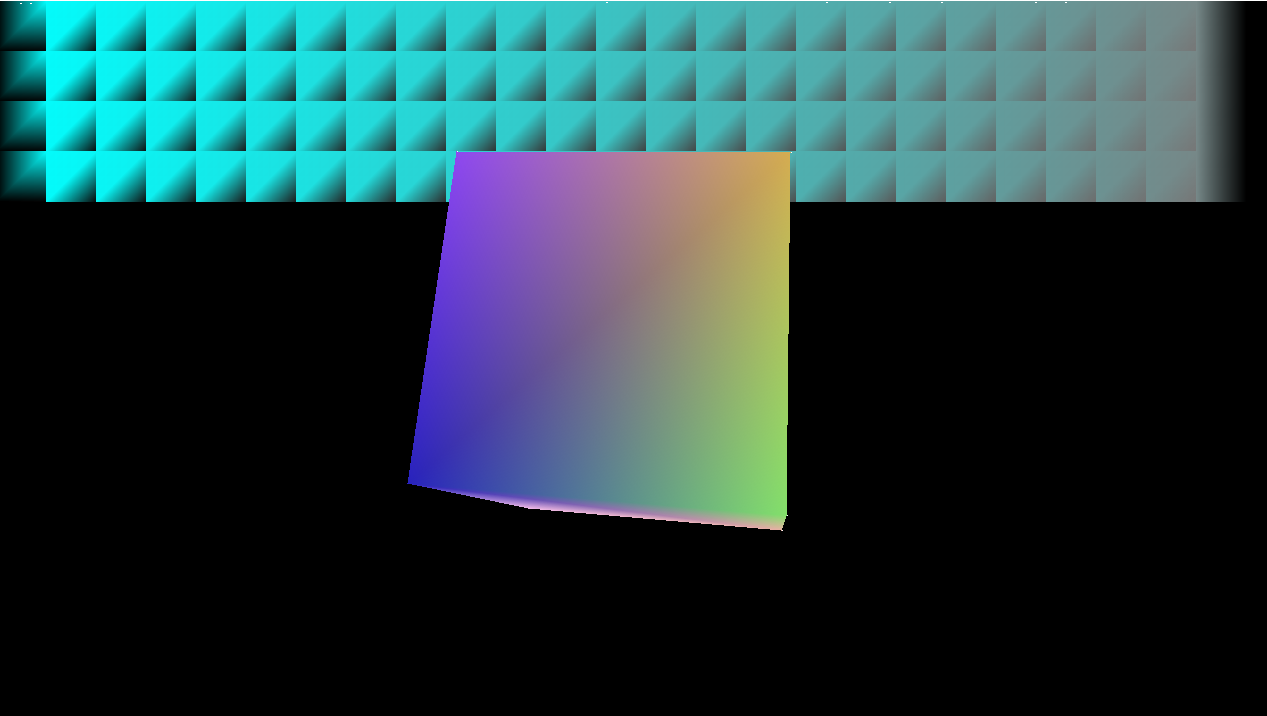
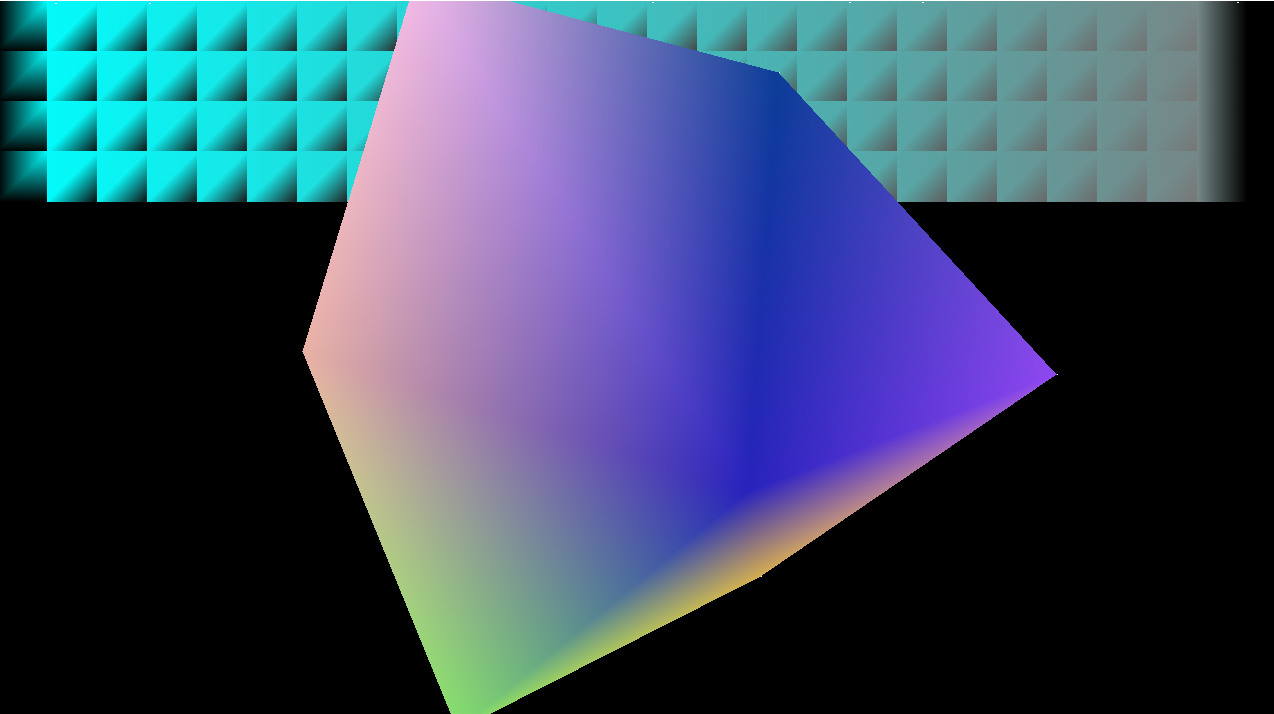
more updates for riscv project

diff --git a/js/projects.js b/js/projects.js
@@ -303,20 +303,6 @@ const PROJECTS = {
       /**
        * 
        * 
-       * mandelbrot
-       * 
-       * tool website
-       * c mock up
-       * desmos mock up
-       * shader toy mock up
-       * 
-       * skills learned section
-       *  system verilog and making testbenches
-       *  c and make/gcc
-       *  vivado tools
-       *  learned about cpu and gpu design
-       *  learned about the floating point system and how to design hardware for it
-       *  
        */
       sections: [
         {
@@ -324,7 +310,7 @@ const PROJECTS = {
           blocks: [
             {
               type: "p",
-              text: "Essentially, as a broad overview of this project, I made a fully functioning computer that runs on a FPGA (Field Programmable Gate Array). And I did it all without AI writing any of the hardware! An FPGA is a special type of computer chip that can \"emulate\" other circuitry. In this case the FPGA is \"emulating\" the computer I designed. The computer is split into two parts. There is the CPU (Central Processing Unit), which is the brains of the computer, then the GPU (Graphics Processing Unit) which does all of the drawing and computations related to drawing.",
+              text: "Essentially, I made a fully functioning computer that runs on a FPGA (Field Programmable Gate Array), and I did it all without AI writing any of the hardware! An FPGA is a special type of computer chip that can \"emulate\" other circuitry. In this case the FPGA is \"emulating\" the computer I designed. The computer is mainly split into two parts. There is the CPU (Central Processing Unit), which is the brains of the computer, then the GPU (Graphics Processing Unit) which does all of the drawing and computations related to drawing.",
             },
           ],
 
@@ -339,11 +325,11 @@ const PROJECTS = {
                 }, 
                 {
                   type: "p",
-                  text: "The CPU can pretty much run any program written in the C programming language. The one limitation is floating arithmetic since the CPU has no instructions that can do it natively. The solution is memory mapped floating point arithmetic. The CPU can write to the screen allowing the user to make programs that draw shapes or text. When it comes to drawing, the CPU is pretty slow. Instead the much faster approach is to utilize the GPU.",
+                  text: "The CPU can pretty much run any program written in the C programming language. It should even be able to run DOOM but I haven't tested it yet. Through some clever modifications the CPU can even do 16 bit floating point operations. The CPU can write to the screen allowing the user to make programs that draw shapes or text; However, when it comes to drawing, the CPU is pretty slow. Instead the much faster approach is to utilize the GPU. Specialized designed hardware to draw triangles and quickly do computations need for 3D graphics.",
                 },
                 {
                   type: "p",
-                  text: "The GPU takes in an list of vertices and a 4x4 matrix. The matrix is used to transform the vertices in 3d space. This is useful for translating/rotating/scaling models with respect to a camera. Then the GPU draws every 3 vertices as a triangle on the screen with a corresponding color."
+                  text: "The GPU takes in an list of vertices and a 4x4 matrix. The matrix is used to transform the vertices in 3d space. This is useful for translating/rotating/scaling models with respect to a camera. Then the GPU draws every 3 vertices as a triangle on the screen with a corresponding color (only one color per triangle)."
                 },
                 {
                   type: "p",
@@ -361,11 +347,11 @@ const PROJECTS = {
                 },
                 {
                   type: "p",
-                  text: "In general the GPU can draw around 300ish triangles at 60 fps on a 1280x720 resolution display at 24 bits per pixel. "
+                  text: "In general the GPU can draw around 300ish triangles at 60 fps on a 1280x720 resolution display at 24 bits per pixel with an 8 bit depth buffer. "
                 },
                 {
                   type: "p",
-                  text: "Both the CPU and GPU can use 16 bit floating point arithmetic (Add/Sub, Mult, Div).",
+                  text: "Both the CPU and GPU can use 16 bit floating point arithmetic (Add/Sub, Mult, Div). When running the Mandelbrot program I estimate the computer was computing about 900,000 floating point operations per second. While the GPU computes around 1,750,000 floating point operations per second when rendering around 300 triangles at 60fps.",
                 },
               ],
             },
@@ -374,7 +360,16 @@ const PROJECTS = {
               blocks:[
                 {
                   type: "p",
-                  text: "I used the Urbana RealDigital board (uses the AMD XC7S50-CSG324A Spartan 7 FPGA). For this project all the hardware was made using SystemVerilog. I used the Visual Studio Code IDE. Vivado was used for simulation and generation of the bit file. I used the openFPGALoader to program the FPGA. Some custom made tools that I will talk about later. I used shadertoy to test some rendering methods. Finally I also used Desmos to test a lot of math throughout this project.",
+                  text: "I used the Urbana RealDigital board (uses the AMD XC7S50-CSG324A Spartan 7 FPGA). For this project all the hardware was made using SystemVerilog. I used the Visual Studio Code IDE. Vivado was used for simulation and generation of the bit file. I used the openFPGALoader to program the FPGA. I will discuss more of my tools bellow.",
+                }
+              ]
+            },
+            {
+              title:"Skills Learned",
+              blocks:[
+                {
+                  type: "p",
+                  text: "This project has taught me many useful skills. The biggest skill I learned was hardware design using SystemVerilog and the vivado tool chain. I also learned more about programming in C and using makescripts. I also learned more about CPU and GPU design through building both. I also learned about different number systems such as ints, floats, and fixed point through both software and designing floating point hardware (add/sub,mult,div,floor,float to int)."
                 }
               ]
             }
@@ -693,7 +688,97 @@ const PROJECTS = {
                   aspectRatio: "775 / 560", 
                 },
               ],
+            },
+            {
+              title: "Number systems",
+              blocks:[
+                {
+                  type: "p",
+                  text: "For this project I made two number systems for my computer to use. The first was a 16 bit fixed point system. The 12 most significant bits were in front of the decimal then the 4 least significant bits went after the decimal place. For example PI would be approximated as 3.125 = 0000_0000_0011.0010. Fixed point arithmetic can be done using integer arithmetic. This made adds/subtracts very easy. Fixed point multiplications and divides were similarly done with integer mult/div but with some bit shifting."
+                },
+                {
+                  type: "p",
+                  text: "While I did initially plan for the GPU to use fixed pont for the rendering, a C simulation made me realize it's limitations. Due to the low precision vertices almost looked snappy. I decided to do a test using 16 bit floating point and it was smoother. The advantages pushed me to using them for the GPU calculations then switch to fixed point for the triangle drawing since a lower level of precision was needed. While my computer uses 16 bit floating point, it is not to the IEEE standard. After some experimentation I landed on using the following bit convention (which happens to be the same as IEEE):"
+                },
+                {
+                  type: "image",
+                  src: "assets/images/FPGAGraphicsCard/IEEE_754r_Half_Floating_Point_Format.svg.webp",
+                  caption: "Credit to wikipedia"
+                },
+                {
+                  type: "p",
+                  text: "Where my implementation differed from the IEEE standard was my 16 bit floats had no subnormals. This was to simplify the hardware so it would run faster and use less of the FPGA's resources. I also was not planning on using very small numbers for any reason. "
+                },
+                {
+                  type: "p",
+                  text: "In my system all vertices were stored as 16 bit floats. The vertex transformer would transform each vertex then convert them to fixed point. The triangle drawer then used these fixed point values to draw the triangles. The CPU had memory mapped floating point hardware that it could use to do floating point math. No fixed point hardware was provided for the CPU since fixed point math is very similar to integer math. However hardware to convert floats to fixed point was provided. "
+                }
+              ],
             }
+          ]
+        },
+        {
+          title: "Tools Used/Made",
+          blocks:[
+          ],
+          subsections: [
+            {
+              title: "Desmos Fixed Point Mock Up",
+              blocks: [
+                {
+                  type: "p",
+                  text: "Before starting on the computer I was trying to decide if I should use fixed point or floating point. To start I made a desmos graph where I made a fixed point mock up. I used it to figure out the minimum number of bits I could get away with for reasonable results. I also a mock up 3d models to visualize the precision of the fixed point number system. [link to graph](https://www.desmos.com/calculator/siyzpfxagn)"
+                },
+                {
+                  type: "image",
+                  src: "assets/images/FPGAGraphicsCard/desmosFixedPoint.PNG",
+                  aspectRatio:"1 / 1",
+                  caption: "Image of Desmos graph showing the Utah Teapot \"rendered\" using the 16 bit fixed point math (yellow) and the ground truth (grey). You can see how limited precision in fixed point leads to it drifting from the real positions."
+                },
+              ],
+            },
+            {
+              title: "C Graphics Card Mock Up",
+              blocks: [
+                {
+                  type: "p",
+                  text: "After making the desmos fixed point graph I decided to make a simulation in C. This simulation had 2 purposes. The first was to get a better visualization of the results of fixed point math. Then test the triangle drawing algorithm using software to get an understand of how it works. The C simulation also allowed me to easily plan/test out the mathematics of the vertex transformer. After making the C simulation I realized the fixed point math works but doesn't look very pleasant. As the cube rotates the vertices of the cube would jitter around. This made me decide to test out floating point arithmetic. ",
+                },
+                {
+                  type: "image",
+                  src: "assets/images/FPGAGraphicsCard/cSimOfGraphicsCard.PNG",
+                  caption: "Output from C simulation showing a rotated cube."
+                }
+              ],
+            },
+            {
+              title: "Desmos Floating Point Mock Up",
+              blocks: [
+                {
+                  type: "p",
+                  text: "I updated my fixed point graph to use floating point math. Again I could adjust the number of bits in my floating point number and the form it would take. This allowed me to figure out the best floating point set up for my project. [Link to graph](https://www.desmos.com/calculator/nruwysokah)",
+                },
+                {
+                  type: "image",
+                  src: "assets/images/FPGAGraphicsCard/desmosFloatingPoint.PNG",
+                  aspectRatio:"2 / 1",
+                  caption: "Image of Desmos graph showing the Utah Teapot \"rendered\" using the 16 bit floating point math (yellow) and the ground truth (grey). Notice how much more accurate the 16 bit floating point is compared to the 16 bit fixed point. This is ultimately why I chose to go with floating point over fixed point for my computer."
+                },
+              ],
+            },
+            {
+              title: "Shadertoy Mandelbrot",
+              blocks: [
+                {
+                  type: "p",
+                  text: "When making the mandelbrot program for my computer I first tested the algorithm using shadertoy. I got the beautiful output bellow. "
+                },
+                {
+                  type: "image",
+                  src: "assets/images/FPGAGraphicsCard/shaderToyMandelbrot.PNG"
+                }
+              ],
+            },
           ]
         }
       ],

diff --git a/pages/resume.html b/pages/resume.html
@@ -25,7 +25,7 @@
           <ul class="nav-links">
             <li><a href="circuitry.html">Circuitry</a></li>
             <li><a href="games.html">Video Games</a></li>
-            <li><a href="voxels.html">Game Tech</a></li>
+            <li><a href="gametech.html">Game Tech</a></li>
             <li><a href="other.html">Other</a></li>
             <li><a href="awards.html">Awards</a></li>
             <li><a href="resume.html" aria-current="page">Resume</a></li>
@@ -86,14 +86,14 @@
             <h2>Experience</h2>
             <ul class="award-list">
               <li class="resume-item">
-                <span class="year">2026 (School Year) - 2026 (Summer)</span>
+                <span class="year">2026 (Spring) & 2026 (Summer)</span>
                 <div>
                   <h3>MIT Undergraduate Research</h3>
                   <p>Worked with professor Joe Steinmeyer to develop a printed circuit board for his 6.205 (Digital Systems Labratory) class. The board takes in 2 MIPI inputs and feeds the signal to an FPGA chip</p>
                 </div>
               </li>
               <li class="resume-item">
-                <span class="year">2025 - 2026 (School Year)</span>
+                <span class="year">2025 - 2026 (School Year) & 2026 Fall</span>
                 <div>
                   <h3>Vassar Package Desk</h3>
                   <p>Worked the front desk for my dorm receiving and logging packages.</p>
@@ -121,7 +121,7 @@
             <ul class="award-list">
               <li class="resume-item resume-item--no-date">
                 <div>
-                  <h3>RISC-V Computer and Graphics Card</h3>
+                  <a href="../project.html?id=RISCComputer">RISC-V Computer and Graphics Card</a>
                   <ul class="project-bullets">
                     <li>Designed a RISC-V Computer and custom 3D graphics card using SystemVerilog</li>
                     <li>Runs on a Spartan 7 FPGA</li>
@@ -130,7 +130,7 @@
               </li>
               <li class="resume-item resume-item--no-date">
                 <div>
-                  <h3>8-bit Computer / Game Console</h3>
+                  <a href="../project.html?id=6502%20Game%20Console">8-bit Computer / Game Console</a>
                   <ul class="project-bullets">
                     <li>Designed and built an 8-bit computer from scratch based on the 6502 microprocessor</li>
                     <li>Built a robust graphics card, allowing the computer to play games similar to the Nintendo Game Console Games.</li>
@@ -140,7 +140,7 @@
               </li>
               <li class="resume-item resume-item--no-date">
                 <div>
-                  <h3>Voxel Rendering Engines</h3>
+                  <a href="/pages/gametech.html">Voxel Rendering Engines</a>
                   <ul class="project-bullets">
                     <li>Designed many engines to visualizes 3d volumetric data</li>
                     <li>Simple cube rasterizer similar to minecraft</li>
@@ -152,7 +152,7 @@
               </li>
               <li class="resume-item resume-item--no-date">
                 <div>
-                  <h3>Physics Engines</h3>
+                  <a href="/pages/gametech.html">Physics Engines</a>
                   <ul class="project-bullets">
                     <li>Have developed 2D physics engine cabable of complex shaped rigidbodies</li>
                     <li>Made similar engine capable of complex 2D softbodies</li>
@@ -164,33 +164,14 @@
 
           <section class="resume-block">
             <h2>Service</h2>
-            <ul class="award-list">
-              <li class="resume-item">
-                <span class="year" aria-hidden="true">•</span>
-                <div>
-                  <p>Provided food for people currently experiencing homelessness in Denver and activities for nearby children</p>
-                </div>
-              </li>
-              <li class="resume-item">
-                <span class="year" aria-hidden="true">•</span>
-                <div>
-                  <p>Assembled water filtration systems for impoverished countries</p>
-                </div>
-              </li>
-              <li class="resume-item">
-                <span class="year" aria-hidden="true">•</span>
-                <div>
-                  <p>Helped build houses through Habitat for Humanity</p>
-                </div>
-              </li>
-              <li class="resume-item">
-                <span class="year" aria-hidden="true">•</span>
-                <div>
-                  <p>Hosted STEM education camp at Joshua Station</p>
-                </div>
-              </li>
+            <ul class="project-bullets">
+              <li>Provided food for people currently experiencing homelessness in Denver and activities for nearby children</li>
+              <li>Assembled water filtration systems for impoverished countries</li>
+              <li>Helped build houses through Habitat for Humanity</li>
+              <li>Hosted STEM education camp at Joshua Station</li>
             </ul>
           </section>
+          <div style="height: 75px;"></div>
         </div>
       </main>
 

diff --git a/index.html b/index.html
@@ -28,7 +28,7 @@
           <ul class="nav-links">
             <li><a href="pages/circuitry.html">Circuitry</a></li>
             <li><a href="pages/games.html">Video Games</a></li>
-            <li><a href="pages/voxels.html">Game Tech</a></li>
+            <li><a href="pages/gametech.html">Game Tech</a></li>
             <li><a href="pages/other.html">Other</a></li>
             <li><a href="pages/awards.html">Awards</a></li>
             <li><a href="pages/resume.html">Resume</a></li>
@@ -41,7 +41,7 @@
           <div class="container">
             <h1 class="hero-brand">Breck <em>Massey</em></h1>
             <p class="hero-lead">
-              MIT Electrical Engineering student and passionate developer.
+              MIT Electrical Engineering Student and Passionate Developer.
             </p>
             <div class="hero-actions">
               <a class="btn btn-ghost" href="pages/resume.html">Resume</a>
@@ -53,6 +53,7 @@
 
         <section class="category-strip container" aria-labelledby="explore-label">
           <h2 id="explore-label">Projects</h2>
+          <p>All projects are made through hard work and human ingenuity without AI.</p>
           <div class="category-row">
             <a class="category-link" href="pages/circuitry.html">
               <strong>Circuitry</strong>
@@ -62,7 +63,7 @@
               <strong>Video Games</strong>
               <span>Playable Projects</span>
             </a>
-            <a class="category-link" href="pages/voxels.html">
+            <a class="category-link" href="pages/gametech.html">
               <strong>Game Technology</strong>
               <span>Tech Used in Games</span>
             </a>

diff --git a/project.html b/project.html
@@ -26,7 +26,7 @@
           <ul class="nav-links">
             <li><a href="pages/circuitry.html">Circuitry</a></li>
             <li><a href="pages/games.html">Video Games</a></li>
-            <li><a href="pages/voxels.html">Game Tech</a></li>
+            <li><a href="pages/gametech.html">Game Tech</a></li>
             <li><a href="pages/other.html">Other</a></li>
             <li><a href="pages/awards.html">Awards</a></li>
             <li><a href="pages/resume.html">Resume</a></li>

diff --git a/pages/gametech.html b/pages/gametech.html
@@ -25,7 +25,7 @@
           <ul class="nav-links">
             <li><a href="circuitry.html">Circuitry</a></li>
             <li><a href="games.html">Video Games</a></li>
-            <li><a href="voxels.html" aria-current="page">Game Tech</a></li>
+            <li><a href="gametech.html" aria-current="page">Game Tech</a></li>
             <li><a href="other.html">Other</a></li>
             <li><a href="awards.html">Awards</a></li>
             <li><a href="resume.html">Resume</a></li>

diff --git a/pages/circuitry.html b/pages/circuitry.html
@@ -25,7 +25,7 @@
           <ul class="nav-links">
             <li><a href="circuitry.html"  aria-current="page">Circuitry</a></li>
             <li><a href="games.html" >Video Games</a></li>
-            <li><a href="voxels.html">Game Tech</a></li>
+            <li><a href="gametech.html">Game Tech</a></li>
             <li><a href="other.html">Other</a></li>
             <li><a href="awards.html">Awards</a></li>
             <li><a href="resume.html">Resume</a></li>

diff --git a/pages/awards.html b/pages/awards.html
@@ -25,7 +25,7 @@
           <ul class="nav-links">
             <li><a href="circuitry.html">Circuitry</a></li>
             <li><a href="games.html" >Video Games</a></li>
-            <li><a href="voxels.html">Game Tech</a></li>
+            <li><a href="gametech.html">Game Tech</a></li>
             <li><a href="other.html">Other</a></li>
             <li><a href="awards.html" aria-current="page">Awards</a></li>
             <li><a href="resume.html">Resume</a></li>

diff --git a/pages/games.html b/pages/games.html
@@ -25,7 +25,7 @@
           <ul class="nav-links">
             <li><a href="circuitry.html">Circuitry</a></li>
             <li><a href="games.html" aria-current="page">Video Games</a></li>
-            <li><a href="voxels.html">Game Tech</a></li>
+            <li><a href="gametech.html">Game Tech</a></li>
             <li><a href="other.html">Other</a></li>
             <li><a href="awards.html">Awards</a></li>
             <li><a href="resume.html">Resume</a></li>

diff --git a/pages/other.html b/pages/other.html
@@ -25,7 +25,7 @@
           <ul class="nav-links">
             <li><a href="circuitry.html">Circuitry</a></li>
             <li><a href="games.html">Video Games</a></li>
-            <li><a href="voxels.html">Game Tech</a></li>
+            <li><a href="gametech.html">Game Tech</a></li>
             <li><a href="other.html" aria-current="page">Other</a></li>
             <li><a href="awards.html">Awards</a></li>
             <li><a href="resume.html">Resume</a></li>

diff --git a/css/styles.css b/css/styles.css
@@ -790,6 +790,16 @@ body[data-page="awards"] .award-list {
   color: var(--muted);
   border-bottom: 1px solid var(--line-soft);
 }
+.resume-block a {
+  margin: 0;
+  padding: 0.25rem 0 0.7rem;
+  font-size: 0.85rem;
+  font-weight: 500;
+  letter-spacing: 0.1em;
+  text-transform: uppercase;
+  color: var(--muted);
+  border-bottom: 1px solid var(--line-soft);
+}
 
 .resume-actions {
   display: flex;
